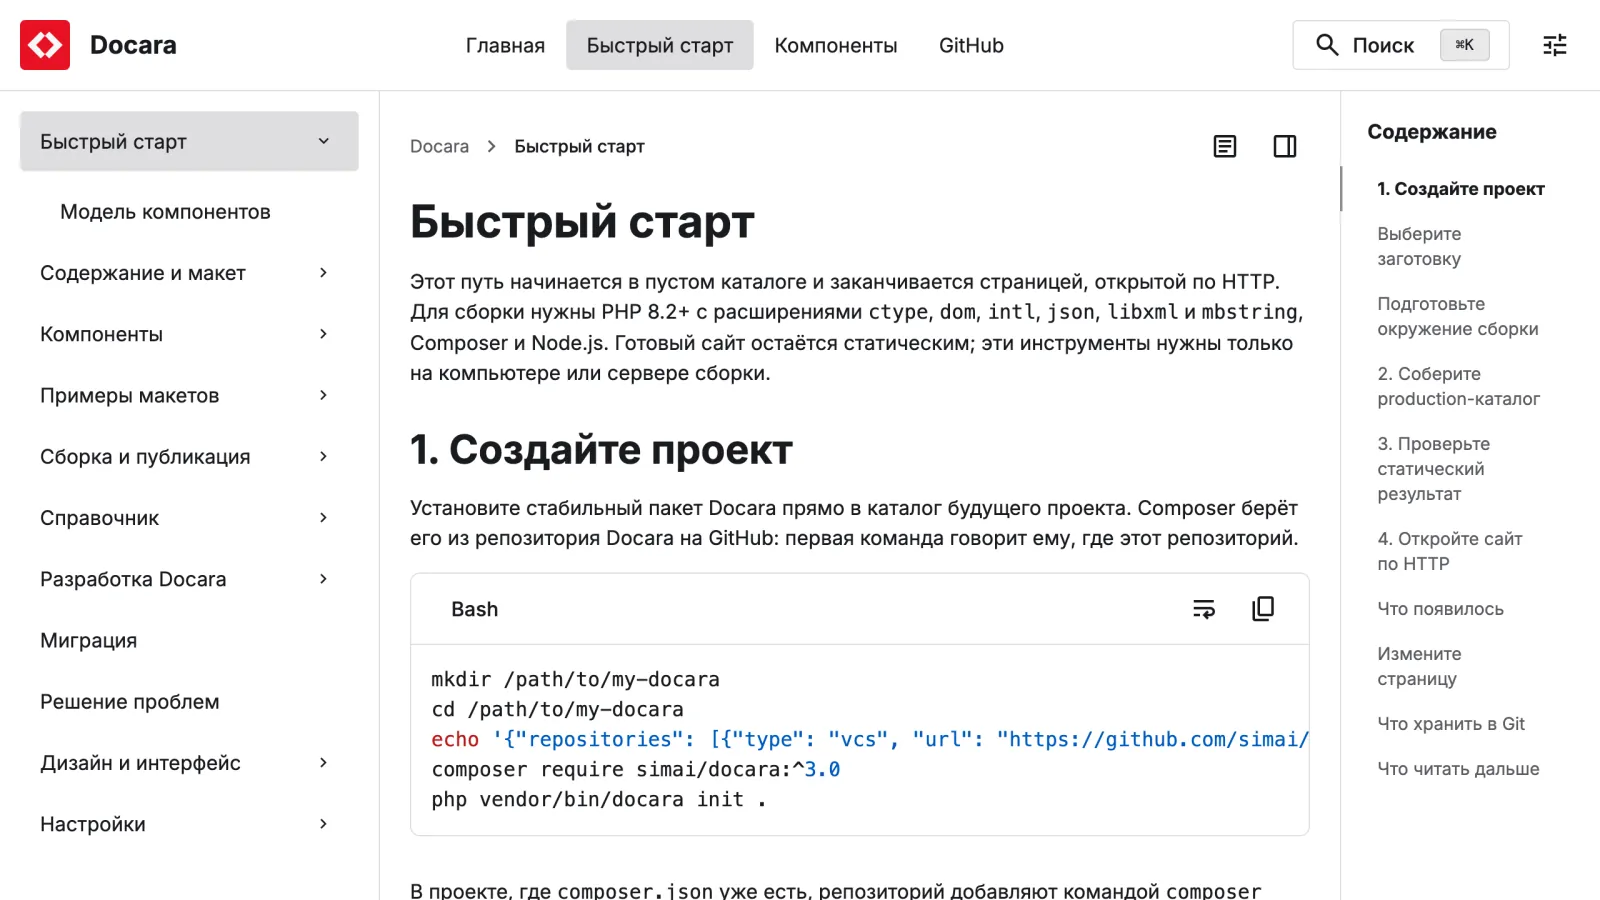
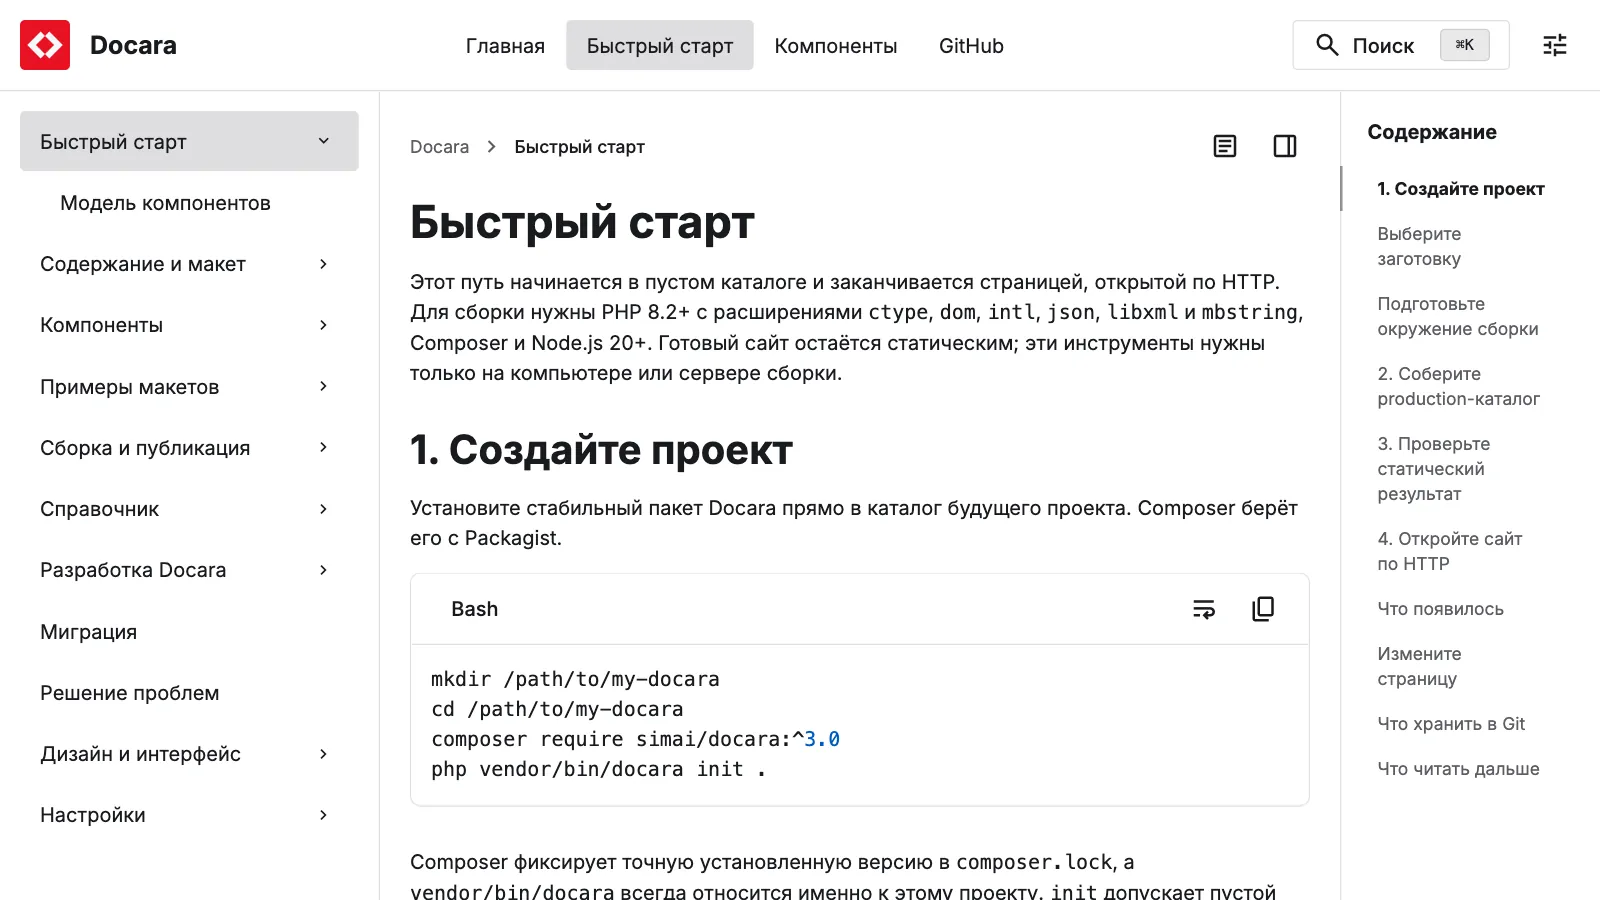
Refresh home page screenshots with the Packagist install
The hero screenshot of the start page (home-docs-page.webp) and the
desktop and mobile landing showcase (home-landing.webp), which embeds the
hero and the three-command block, still showed the old install that added
a repositories VCS entry before composer require. Re-take both from
docara.simai.io in headless Chromium with the original viewports (1280x720
at 1.25x, light; landing desktop 1280x720 at 1.25x scaled to 1360x765 and
mobile 390x844 at 2x dark scaled to 370x800, on the original transparent
1600x900 frame). The landing capture serves the new hero to the live page,
since the live site still has the old one. File names and sizes are
unchanged, so the pinned home content hash stays the same.

diff --git a/CHANGELOG.md b/CHANGELOG.md
@@ -116,6 +116,12 @@ All notable changes to Docara are recorded here. The format follows
   runs, the stylesheet's estimate (73 px) applies. The mobile navigation sheet
   lays out its header and content as a column, so the content no longer
   assumes a 56 px header and its end stays inside the window.
+- The documentation home page screenshots `home-docs-page.webp` (hero) and
+  `home-landing.webp` (desktop and mobile showcase) no longer show the old
+  start-page install that added a `repositories` VCS entry before
+  `composer require`. They are re-taken from the live site, which installs
+  from Packagist, at the same 1600×900 size and file names (84 KB and 100 KB,
+  down from 89 KB and 104 KB).
 - In the documentation navigation, a parent row and its first child are
   spaced like sibling rows (1px) instead of 8px apart, on the desktop tree and
   in the mobile sheet.
